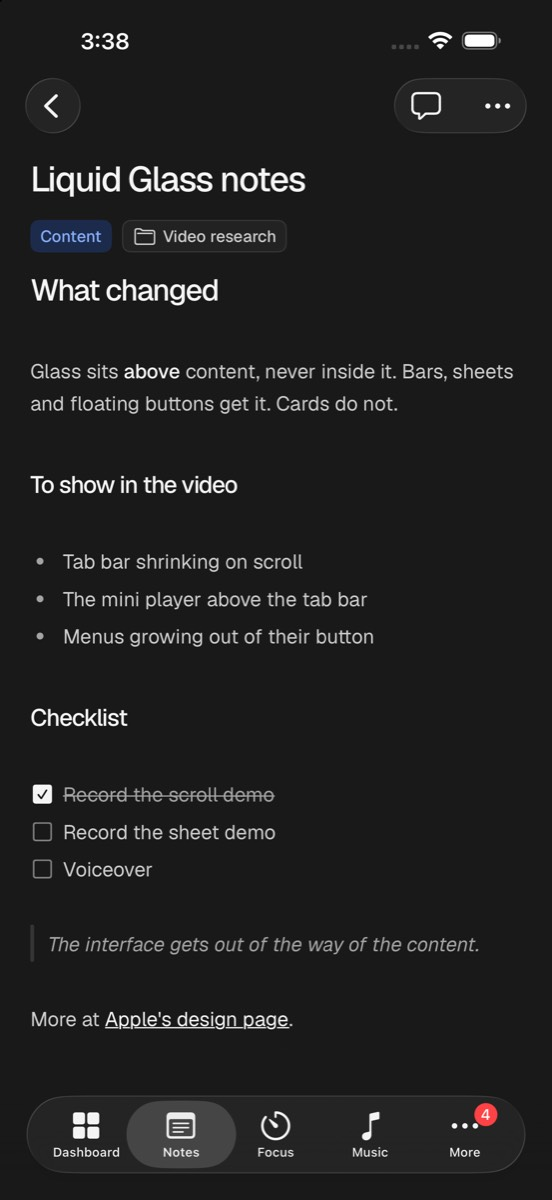
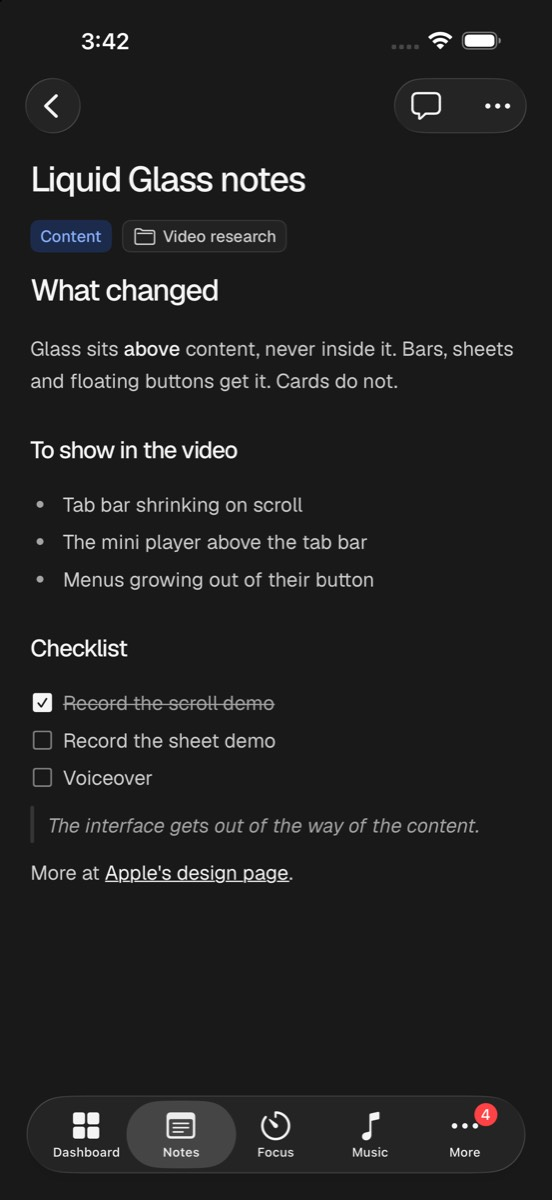
iPhone app: note rhythm, no stand-in notes, saved copies read once
Blank lines between blocks are a small gap and headings sit closer to what
follows, matching the old rendered view. A note that exists but can't be
read (offline, no saved copy) shows Couldn't open this note and is never
saved or deleted; only a note made with + may start empty and be thrown away
when left empty (NoteLeave.decide, tested). Saved copies are read from disk
once per note or document.

diff --git a/ios/LukeOS/Features/Notes/NoteScreen.swift b/ios/LukeOS/Features/Notes/NoteScreen.swift
@@ -3,26 +3,71 @@ import PhotosUI
 
 /// One note. Markdown notes are edited natively; a note the app can't fully show as Markdown
 /// (tables, raw HTML, saved pages) opens read-only with "Edit on the web".
+/// What happens to a note when Luke leaves it.
+enum NoteLeave: Equatable {
+    case keep, delete, save
+
+    /// Only a note made in this visit may be thrown away for being empty, and only a note that
+    /// actually loaded (or is new) may be saved or deleted at all.
+    static func decide(isNew: Bool, loaded: Bool, title: String, text: String, originalTitle: String, originalText: String) -> NoteLeave {
+        guard loaded || isNew else { return .keep }
+        let empty = title.trimmingCharacters(in: .whitespacesAndNewlines).isEmpty && text.trimmingCharacters(in: .whitespacesAndNewlines).isEmpty
+        if isNew && empty { return .delete }
+        return title != originalTitle || text != originalText ? .save : .keep
+    }
+}
+
+/// Saved copies read once per note id, so re-creating the view doesn't read the disk again.
+@MainActor
+enum SavedCopy {
+    private static var notes: [String: Note?] = [:]
+    private static var documents: [String: LukeDocument?] = [:]
+
+    static func note(_ id: String) -> Note? {
+        if let hit = notes[id] { return hit }
+        let n = Repo.cachedNow("get_note", ["id": .string(id)], as: Note.self)
+        notes[id] = .some(n)
+        return n
+    }
+
+    static func document(_ id: String) -> LukeDocument? {
+        if let hit = documents[id] { return hit }
+        let d = Repo.cachedNow("get_document", ["id": .string(id)], as: LukeDocument.self)
+        documents[id] = .some(d)
+        return d
+    }
+
+    /// Forget a copy once a fresher one has been fetched.
+    static func forget(note id: String) { notes[id] = nil }
+    static func forget(document id: String) { documents[id] = nil }
+}
+
 struct NoteScreen: View {
     var noteId: String
     /// What the list already knows (title), shown at once while the note loads.
     var preview: String? = nil
+    /// Made just now (the + button), so it may start empty and be thrown away if left empty.
+    var isNew = false
     @Environment(\.dismiss) private var dismiss
     @State private var note: Note?
     @State private var title = ""
     @State private var text = ""
 
-    init(noteId: String, preview: String? = nil) {
+    init(noteId: String, preview: String? = nil, isNew: Bool = false) {
         self.noteId = noteId
         self.preview = preview
+        self.isNew = isNew
         // Draw the first frame from the saved copy, so a zoom never opens on a blank page.
-        let saved = Repo.cachedNow("get_note", ["id": .string(noteId)], as: Note.self)
+        let saved = SavedCopy.note(noteId)
         _note = State(initialValue: saved)
+        _loaded = State(initialValue: saved != nil)
         _title = State(initialValue: saved?.title ?? "")
         _text = State(initialValue: saved?.content ?? "")
     }
     @State private var saved = true
     @State private var failed = false
+    /// The note really came from the server or the saved copy (not a stand-in).
+    @State private var loaded = false
     @State private var saveTask: Task<Void, Never>?
     @State private var showComments = false
     @State private var showWeb = false
@@ -171,12 +216,21 @@ struct NoteScreen: View {
     // MARK: Loading and saving
 
     private func load() async {
-        if let cached = await Repo.cached("get_note", ["id": .string(noteId)], as: Note.self) { show(cached) }
+        if let cached = await Repo.cached("get_note", ["id": .string(noteId)], as: Note.self) { show(cached); loaded = true }
         do {
             show(try await Repo.fetch("get_note", ["id": .string(noteId)], as: Note.self))
+            loaded = true
+            SavedCopy.forget(note: noteId)
         } catch {
-            // A note just made offline isn't on the server yet: start it empty.
-            if note == nil { show(Note(id: noteId, title: "", format: "markdown", content: "")) }
+            if note == nil {
+                if isNew {
+                    // Made just now, offline: it isn't on the server yet, so it starts empty.
+                    show(Note(id: noteId, title: "", format: "markdown", content: ""))
+                } else {
+                    // A note that exists but can't be read now: never stand in an empty one.
+                    failed = true
+                }
+            }
         }
         folders = (try? await Repo.fetch("list_folders", as: [Folder].self)) ?? []
     }
@@ -200,7 +254,7 @@ struct NoteScreen: View {
     }
 
     private func schedule() {
-        guard let note, editable, title != note.title || text != note.content else { return }
+        guard let note, editable, loaded || isNew, title != note.title || text != note.content else { return }
         saved = false
         saveTask?.cancel()
         saveTask = Task {
@@ -226,12 +280,11 @@ struct NoteScreen: View {
 
     private func leave() {
         saveTask?.cancel()
-        guard let note else { return }
-        if title.trimmingCharacters(in: .whitespacesAndNewlines).isEmpty, text.trimmingCharacters(in: .whitespacesAndNewlines).isEmpty, editable {
-            // An empty note isn't kept.
-            Task { await Repo.change("delete_note", ["id": .string(noteId)]) }
-        } else if title != note.title || text != note.content {
-            Task { await save() }
+        guard let note, editable else { return }
+        switch NoteLeave.decide(isNew: isNew, loaded: loaded, title: title, text: text, originalTitle: note.title, originalText: note.content) {
+        case .delete: Task { await Repo.change("delete_note", ["id": .string(noteId)]) }
+        case .save: Task { await save() }
+        case .keep: break
         }
     }
 

diff --git a/ios/LukeOS/DesignSystem/MarkdownEditor.swift b/ios/LukeOS/DesignSystem/MarkdownEditor.swift
@@ -455,6 +455,15 @@ enum MDStyle {
             func dim(_ r: NSRange) { out.addAttributes(active ? [.foregroundColor: quiet] : hidden, range: r) }
             func mark(_ r: NSRange) { out.addAttribute(.foregroundColor, value: quiet, range: r) }
             let trimmed = line.trimmingCharacters(in: .whitespaces)
+            if line.isEmpty && !active && !inCode {
+                // A blank line between blocks is a small gap, not a whole line; full height while being typed on.
+                let p = NSMutableParagraphStyle()
+                p.minimumLineHeight = Space.s
+                p.maximumLineHeight = Space.s
+                p.paragraphSpacing = 0
+                out.addAttributes([.paragraphStyle: p, .font: UIFont.systemFont(ofSize: Space.s / 2)], range: enclosing)
+                return
+            }
             if trimmed.hasPrefix("```") {
                 inCode.toggle()
                 out.addAttributes([.font: font("GeistMono-Regular", 14), .foregroundColor: quiet], range: lineRange)
@@ -468,8 +477,9 @@ enum MDStyle {
                 let level = m.1.count
                 let size: CGFloat = level == 1 ? LukeType.section.size + 2 : level == 2 ? LukeType.heading.size + 1 : LukeType.heading.size
                 let p = NSMutableParagraphStyle()
-                p.paragraphSpacingBefore = level == 1 ? Space.m : Space.s
-                p.paragraphSpacing = Space.xs
+                // More room above a heading than below, so it belongs to what follows.
+                p.paragraphSpacingBefore = Space.xl
+                p.paragraphSpacing = Space.s
                 out.addAttributes([.font: font("Geist-Medium", size, .title2), .foregroundColor: ink, .kern: -0.04 * size, .paragraphStyle: p], range: lineRange)
                 dim(NSRange(location: lineRange.location, length: level + 1))
                 inline(out, line: line, at: lineRange.location, active: active)

diff --git a/ios/Tests/MarkdownEditorTests.swift b/ios/Tests/MarkdownEditorTests.swift
@@ -149,3 +149,25 @@ final class MarkdownEditorTests: XCTestCase {
         XCTAssertEqual(Markdown.toggleCheck(md, line: 1), "- [ ] a\n- [ ] b\n")
     }
 }
+
+/// What leaving a note does: only a note made in this visit may be deleted for being empty,
+/// and a note that never loaded is never saved or deleted.
+final class NoteLeaveTests: XCTestCase {
+    func testDecisions() {
+        func d(_ isNew: Bool, _ loaded: Bool, _ t: String, _ x: String, _ ot: String = "", _ ox: String = "") -> NoteLeave {
+            NoteLeave.decide(isNew: isNew, loaded: loaded, title: t, text: x, originalTitle: ot, originalText: ox)
+        }
+        // Opened offline with no saved copy: nothing happens, whatever the fields say.
+        XCTAssertEqual(d(false, false, "", ""), .keep)
+        XCTAssertEqual(d(false, false, "typed", "", "", ""), .keep)
+        // A real note left empty by Luke is saved empty, never deleted.
+        XCTAssertEqual(d(false, true, "", "", "Title", "Body"), .save)
+        // Unchanged: nothing to send.
+        XCTAssertEqual(d(false, true, "Title", "Body", "Title", "Body"), .keep)
+        // Changed: saved.
+        XCTAssertEqual(d(false, true, "Title", "Body!", "Title", "Body"), .save)
+        // A new note left empty is thrown away; with words in it, it's saved.
+        XCTAssertEqual(d(true, false, "", "  \n"), .delete)
+        XCTAssertEqual(d(true, true, "Idea", ""), .save)
+    }
+}

diff --git a/ios/LukeOS/Features/Notes/NotesScreen.swift b/ios/LukeOS/Features/Notes/NotesScreen.swift
@@ -109,6 +109,8 @@ struct NotesList: View {
     @State private var newName = ""
     @State private var creatingFolder = false
     @State private var openNote: String?
+    /// The note just made with the + button, which may be left empty and thrown away.
+    @State private var newNoteId: String?
     @Namespace private var zoom
     @Environment(\.dismiss) private var dismiss
 
@@ -177,7 +179,7 @@ struct NotesList: View {
         .refreshable { await model.load() }
         .task { await model.load() }
         .navigationDestination(item: $openNote) { id in
-            NoteScreen(noteId: id, preview: model.notes.first { $0.id == id }?.displayTitle).zoomTransition(id, in: zoom)
+            NoteScreen(noteId: id, preview: model.notes.first { $0.id == id }?.displayTitle, isNew: id == newNoteId).zoomTransition(id, in: zoom)
         }
         .toolbar {
             if let folder {
@@ -203,7 +205,11 @@ struct NotesList: View {
             }
             ToolbarItem(placement: .topBarTrailing) {
                 Button {
-                    Task { openNote = await model.newNote() }
+                    Task {
+                        let id = await model.newNote()
+                        newNoteId = id
+                        openNote = id
+                    }
                 } label: { Image(systemName: "square.and.pencil") }
                     .accessibilityLabel("New note")
             }

diff --git a/ios/LukeOS/Features/More/DocumentsScreen.swift b/ios/LukeOS/Features/More/DocumentsScreen.swift
@@ -133,7 +133,7 @@ struct DocumentScreen: View {
     init(documentId: String, preview: String? = nil) {
         self.documentId = documentId
         self.preview = preview
-        _doc = State(initialValue: Repo.cachedNow("get_document", ["id": .string(documentId)], as: LukeDocument.self))
+        _doc = State(initialValue: SavedCopy.document(documentId))
     }
     @State private var showComments = false
     @State private var showWeb = false
